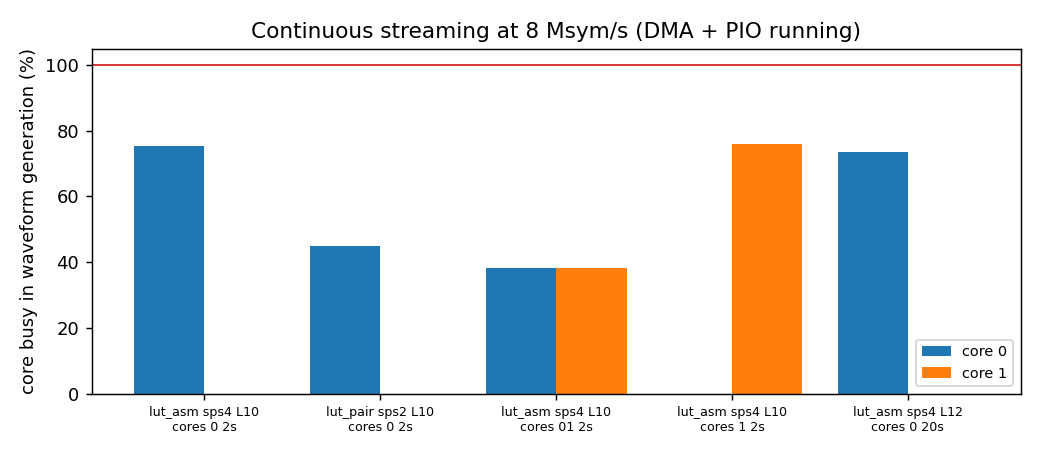
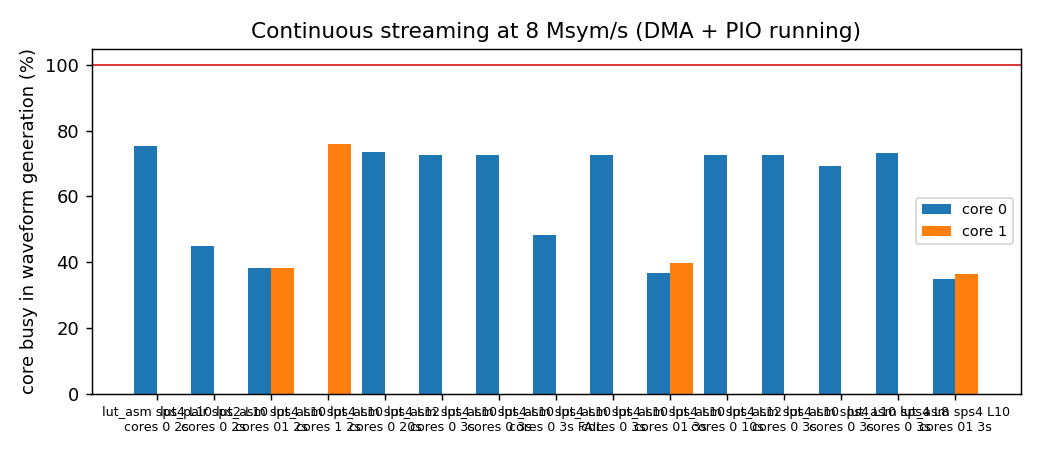
Place tables in SRAM4-7 and hot kernel in SRAM8: contention gone

Changed region(s): [[0.0923, 0.3077, 0.9846, 0.9538]]

diff --git a/firmware/src/iqgen.c b/firmware/src/iqgen.c
@@ -4,8 +4,12 @@
 
 #ifdef IQ_ON_DEVICE
 #define IQ_HOT(f) __attribute__((section(".time_critical." #f))) f
+// SRAM8 (SCRATCH_X, unstriped): instruction fetch never collides with table or buffer accesses.
+// Room for about 2 KiB of code below core 1's stack.
+#define IQ_HOT_X(f) __attribute__((section(".scratch_x." #f))) f
 #else
 #define IQ_HOT(f) f
+#define IQ_HOT_X(f) f
 #endif
 
 // Signed right shifts below are arithmetic (GCC/Clang on Arm and x86), matching Python's >>.
@@ -154,8 +158,8 @@ static inline __attribute__((always_inline)) void lut_pair(
     "strd %[a0], %[b0], [%[o]], #8\n"                                                      \
     "strd %[a1], %[b1], [%[o]], #8\n"
 
-#define LUT_ASM(S, LL)                                                                     \
-    static void IQ_HOT(k_asm_##S##_##LL)(uint32_t *o, const uint32_t *in, uint32_t n,       \
+#define LUT_ASM(S, LL, PLACE)                                                              \
+    static void PLACE(k_asm_##S##_##LL)(uint32_t *o, const uint32_t *in, uint32_t n,       \
                                          uint32_t prev, const iq_cfg_t *c) {               \
         const uint32_t *ti0 = c->ti, *tq0 = c->tq, *ti1 = ti0 + 1, *tq1 = tq0 + 1;          \
         for (const uint32_t *end = in + n; in != end; in++) {                              \
@@ -174,7 +178,8 @@ static inline __attribute__((always_inline)) void lut_pair(
             (void)a1, (void)b1;                                                            \
         }                                                                                  \
     }
-LUT_ASM(2, 8) LUT_ASM(2, 10) LUT_ASM(2, 12) LUT_ASM(4, 8) LUT_ASM(4, 10) LUT_ASM(4, 12)
+LUT_ASM(2, 8, IQ_HOT) LUT_ASM(2, 10, IQ_HOT) LUT_ASM(2, 12, IQ_HOT)
+LUT_ASM(4, 8, IQ_HOT) LUT_ASM(4, 10, IQ_HOT_X) LUT_ASM(4, 12, IQ_HOT_X)
 #define ASM_KERNELS                                                                        \
     {"lut_asm", 2, 8, 1, k_asm_2_8},   {"lut_asm", 2, 10, 1, k_asm_2_10},                    \
     {"lut_asm", 2, 12, 1, k_asm_2_12}, {"lut_asm", 4, 8, 1, k_asm_4_8},                      \

diff --git a/firmware/src/main.c b/firmware/src/main.c
@@ -31,8 +31,8 @@
 
 static uint32_t ring_buf[N_BLOCKS * BLOCK_SYMS * MAX_SPS];   // 128 KiB
 static uint32_t in_buf[IN_WORDS] __attribute__((aligned(4 * IN_WORDS)));   // 16 KiB PRBS
-static uint32_t tab_i[TABLE_WORDS], tab_q[TABLE_WORDS];      // 32 KiB each
-static uint32_t cap_buf[CAP_WORDS_MAX];                      // 64 KiB
+static uint32_t tab_i[TABLE_WORDS] SRAM_HI, tab_q[TABLE_WORDS] SRAM_HI;   // 32 KiB each
+static uint32_t cap_buf[CAP_WORDS_MAX] SRAM_HI;                          // 64 KiB
 
 static iq_cfg_t cfg = {.ti = tab_i, .tq = tab_q};
 static const coef_set_t *cur_set;

diff --git a/firmware/src/config.h b/firmware/src/config.h
@@ -22,3 +22,6 @@
 #define IN_WORDS 4096                         // input ring: 65536 symbols
 #define CAP_WORDS_MAX 16384                   // capture buffer, 64 KiB
 #define MAX_L 12
+
+// Placement (see CMakeLists.txt): SRAM4-7 for data the CPU reads randomly, away from DMA traffic.
+#define SRAM_HI __attribute__((section(".sram_hi")))
